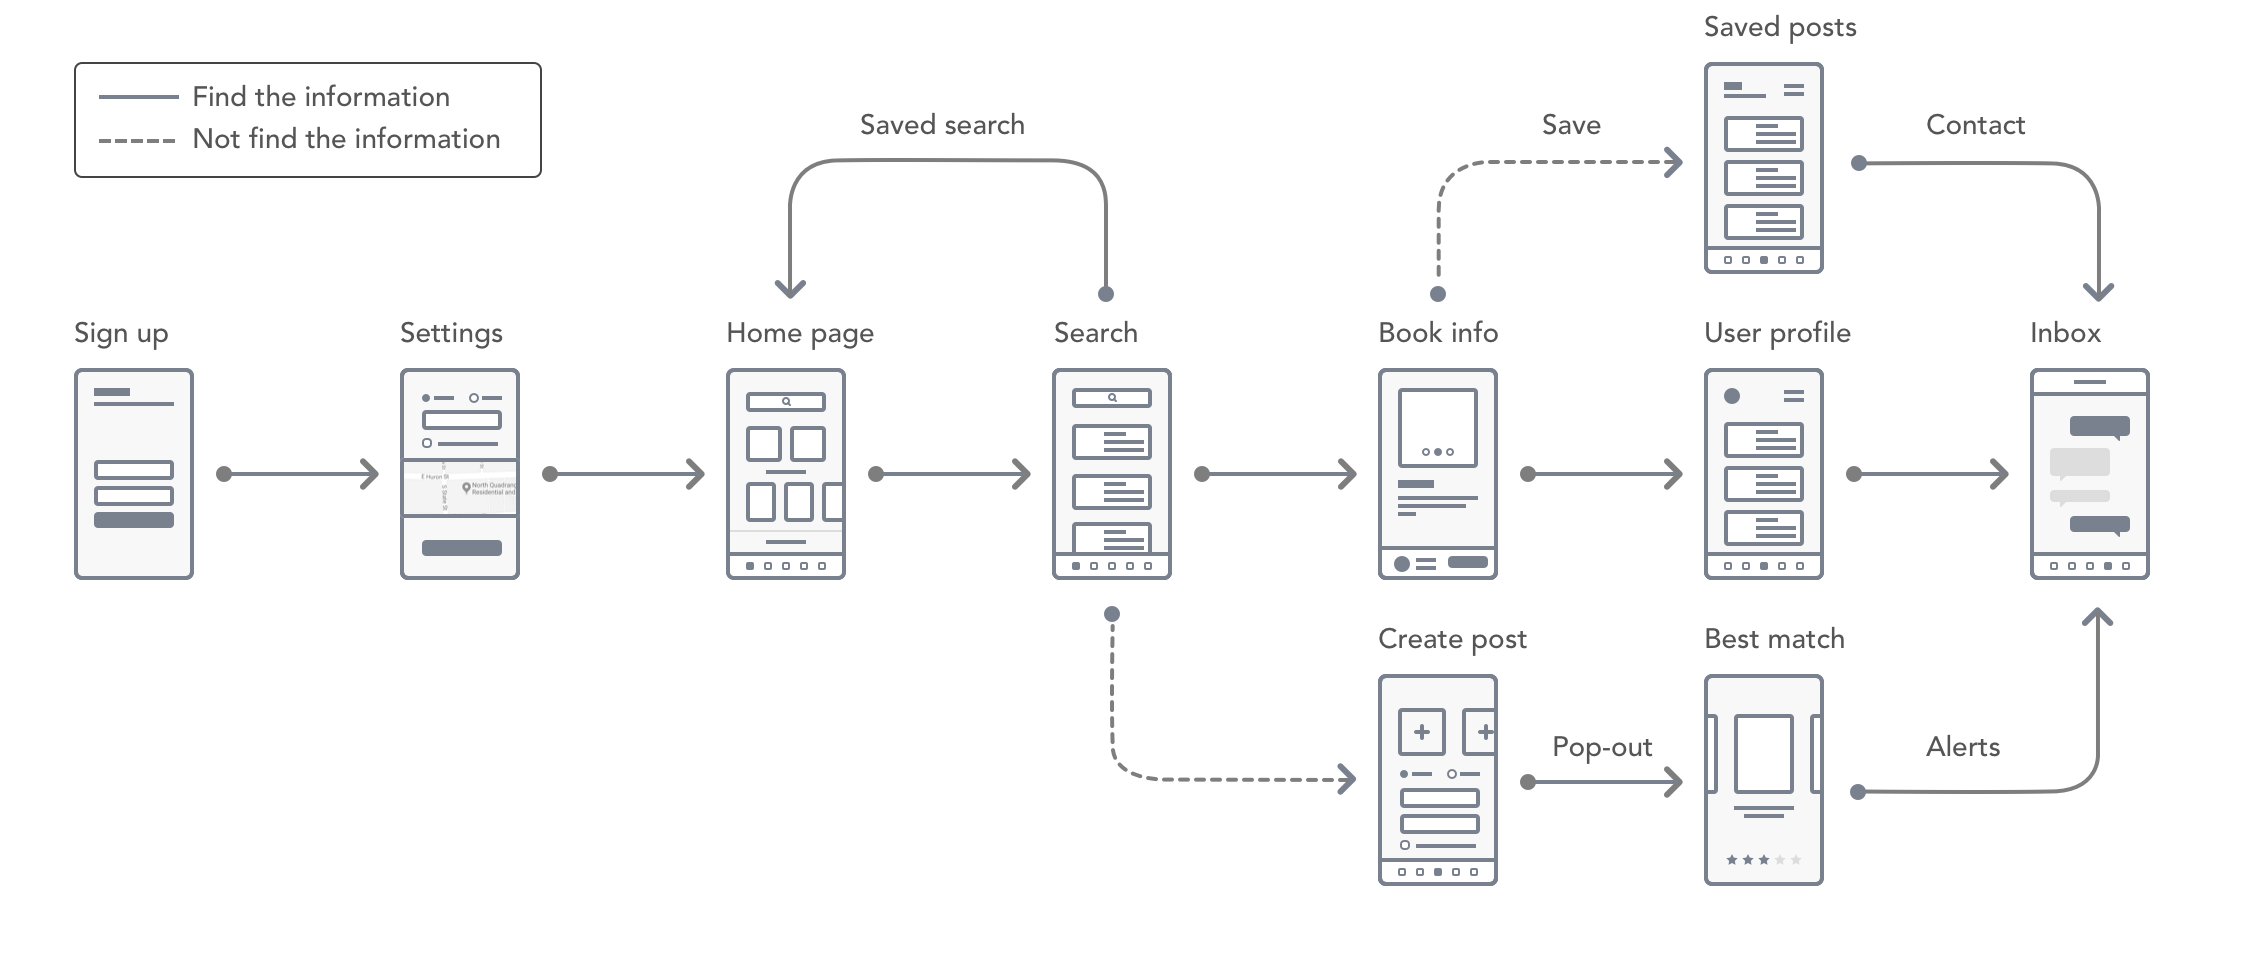
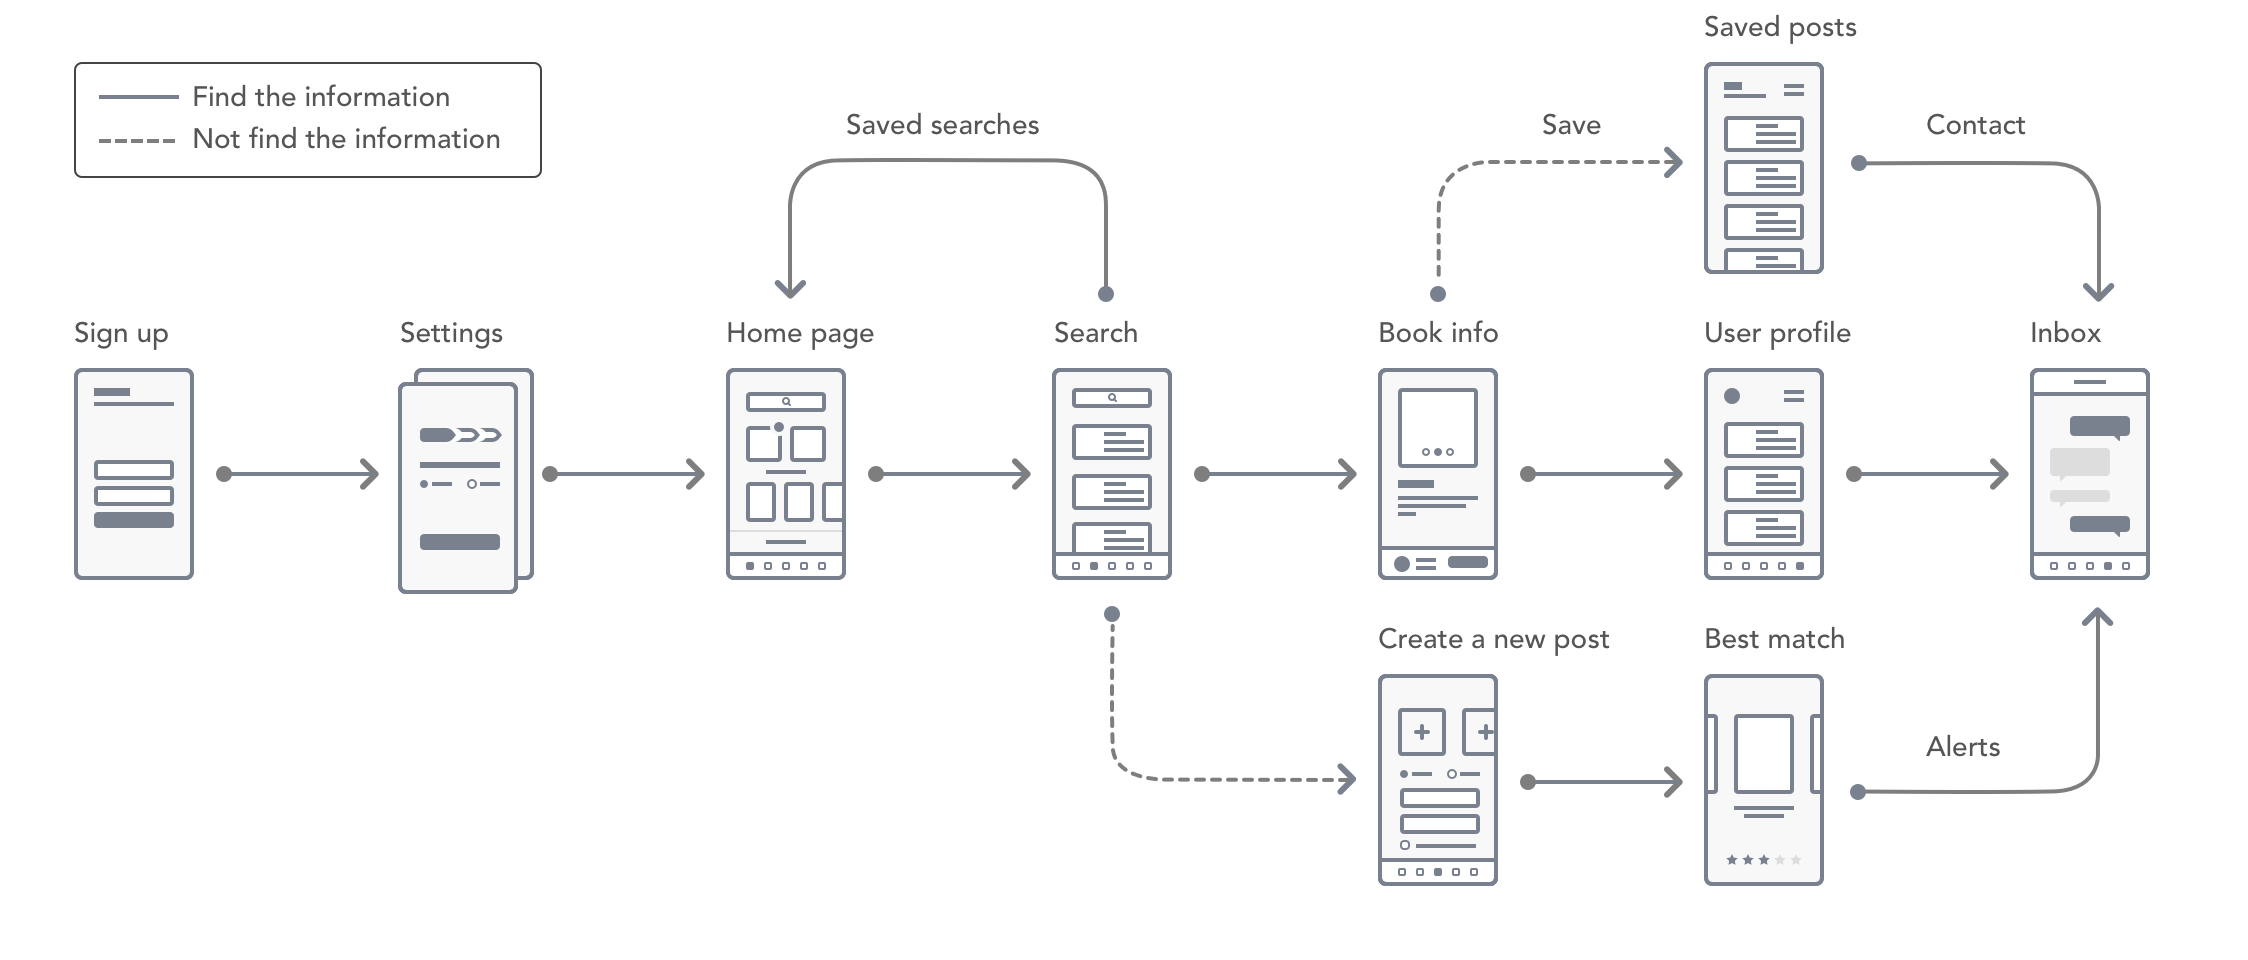
fix the flow
fix the flow

diff --git a/ubooks.html b/ubooks.html
@@ -389,6 +389,7 @@
 					<br><b class="bolder"><font size="4" color="#666666">2. </font>Creat-a-new-post process:</b> instead of typing on the mobile phone, the user is more willing to choose or auto-fill the form by taking a picture.
 					<br><b class="bolder"><font size="4" color="#666666">3. </font>Saved-search feature:</b> they like the idea of saved-search/posts. And they also wish to receive the notification if they need it.
 					<br><b class="bolder"><font size="4" color="#666666">4. </font>Confusing labels and flows:</b> the "sell" and "buy" tabs are confusing and choosing the department and major seems not intuitive too.
+					<br><b class="bolder"><font size="4" color="#666666">5. </font>Sign-in with student ID:</b> users think it's safer to sign-in by using student ID and then they can sync the course to this app to personalize the home page.
 				</p>								
 			</div>
 		</div>	
@@ -413,7 +414,8 @@
 					</div><br><br>
 					<p><h3>Decisions</h3></p>
 					<p class="description pb-3">
-						To achieve the design goal of helping users find the best match efficiently, I decided to set <b class="bolder">search function as my primary focus</b> and create-a-new-post as secondary. In the workflow of searching, I decided to proceed with the following features: homepage recommendation, as-you-type suggestions, filters/ sort function, and supplementary features of basic settings and saved search notifications, as shown in figure 3. 
+						According to the insights, users with a clear goal in mind are more willing to start searching directly instead of exploring. Only when there are no matched results, they will turn to post, because that takes longer. Additionally, posting repetitive information is can cause information overflow. Therefore, to achieve the design goal of helping users find the best match efficiently, I decided to <b class="bolder">set search function as my primary focus</b> and create-a-new-post as secondary. 
+						<br> In the searching flow, I decided to proceed with the <b class="bolder">following features in orange(figure 3):</b> personalized homepage, best match recommendation, as-you-type suggestions, filters and sorts function, and supplementary features of basic settings and saved search notifications. 
 					</p>
 					<div class="text-center">
 						<img src="img/ubooks/decision.png" alt="#" class="img-responsive img-centered" />
